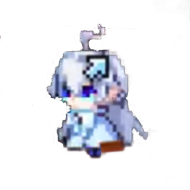
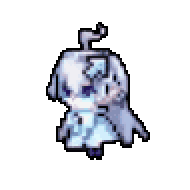
release: 0.2.3 (WebP slimming to ~6MB; pet double-click fix; pixel-sharp pet sprites)

Changed region(s): [[0.2368, 0.1053, 0.7895, 0.8421], [0.0, 0.1842, 0.0263, 0.2105]]

diff --git a/tools/window/pet.html b/tools/window/pet.html
@@ -284,8 +284,11 @@
 
     // 点击穿透：只在光标压到角色、或菜单开着时接管鼠标
     let interactive = false;
+    // 刚点过的一小段时间内保持可点：双击时角色会躲开，第二下不能掉进点击穿透里
+    let interactiveUntil = 0;
     function syncInteractive(force) {
-      const want = menu.classList.contains('show') || (cursor.on && onPet(cursor.x, cursor.y));
+      const want = menu.classList.contains('show') || performance.now() < interactiveUntil
+        || (cursor.on && onPet(cursor.x, cursor.y));
       // 宿主那边的鼠标持有权是 1.5 秒的租约，只在状态变化时报一次会过期，
       // 表现就是「菜单明明开着，过一会儿就点不动了」。所以只要还在持有就一直续租。
       if (!want && !force && want === interactive) return;
@@ -585,17 +588,41 @@
 
     // ---------------- 交互 ----------------
     let clickTimer = 0;
+    let lastClick = { t: 0, x: 0, y: 0 };
+    const DBL_GAP = 420;     // 两下点击的间隔上限（毫秒）
+    const DBL_SLACK = 1.7;   // 第二下离第一下多远也算同一组双击
 
     window.addEventListener('click', (e) => {
       if (menu.classList.contains('show')) return;
-      if (!onPet(e.clientX, e.clientY)) return;
+      const now = performance.now();
+      const nearLast = now - lastClick.t <= DBL_GAP &&
+        Math.hypot(e.clientX - lastClick.x, e.clientY - lastClick.y) <= SIZE * DBL_SLACK;
+      if (!onPet(e.clientX, e.clientY) && !nearLast) return;
+      // 点到了就把交互权多续一小段：角色会躲，第二下不能掉进点击穿透
+      interactiveUntil = now + 800;
+      syncInteractive(true);
       clearTimeout(clickTimer);
-      clickTimer = setTimeout(() => { showBubble(); }, CLICK_DELAY);
+      if (nearLast) {
+        // 双击在这里自己判，不再只依赖原生 dblclick（角色会移动，原生事件也常被点击穿透吞掉）
+        lastClick.t = 0;
+        triggerHit();
+        showBubble();
+        return;
+      }
+      lastClick = { t: now, x: e.clientX, y: e.clientY };
+      clickTimer = setTimeout(() => { lastClick.t = 0; showBubble(); }, CLICK_DELAY);
     });
 
     window.addEventListener('dblclick', (e) => {
-      if (!onPet(e.clientX, e.clientY)) return;
+      if (pet.mode === 'hit') return;
+      const now = performance.now();
+      const nearLast = now - lastClick.t <= DBL_GAP &&
+        Math.hypot(e.clientX - lastClick.x, e.clientY - lastClick.y) <= SIZE * DBL_SLACK;
+      if (!onPet(e.clientX, e.clientY) && !nearLast) return;
       clearTimeout(clickTimer);
+      lastClick.t = 0;
+      interactiveUntil = now + 800;
+      syncInteractive(true);
       triggerHit();
       showBubble();
     });

diff --git a/tools/window/ui2.html b/tools/window/ui2.html
@@ -42,21 +42,21 @@
        所以框的左右边缘正好压住画里的窗口边，人物搭在窗沿上的手自然对位。 -->
   <div class="scene" id="scene">
     <div class="art" id="art">
-      <img data-act="idle1" src="./ui2/idle_1.png" alt="" class="on">
-      <img data-act="idle2" src="./ui2/idle_2.png" alt="">
-      <img data-act="idle3" src="./ui2/idle_3.png" alt="">
-      <img data-act="idle4" src="./ui2/idle_4.png" alt="">
-      <img data-act="talk1" src="./ui2/talk_1.png" alt="">
-      <img data-act="talk2" src="./ui2/talk_2.png" alt="">
-      <img data-act="talk3" src="./ui2/talk_3.png" alt="">
-      <img data-act="talk4" src="./ui2/talk_4.png" alt="">
-      <img data-act="talk5" src="./ui2/talk_5.png" alt="">
-      <img data-act="sigh1" src="./ui2/sigh_1.png" alt="">
-      <img data-act="sigh2" src="./ui2/sigh_2.png" alt="">
-      <img data-act="sigh3" src="./ui2/sigh_3.png" alt="">
-      <img data-act="sigh4" src="./ui2/sigh_4.png" alt="">
-      <img data-act="sigh5" src="./ui2/sigh_5.png" alt="">
-      <img data-act="sigh6" src="./ui2/sigh_6.png" alt="">
+      <img data-act="idle1" src="./ui2/idle_1.webp" alt="" class="on">
+      <img data-act="idle2" src="./ui2/idle_2.webp" alt="">
+      <img data-act="idle3" src="./ui2/idle_3.webp" alt="">
+      <img data-act="idle4" src="./ui2/idle_4.webp" alt="">
+      <img data-act="talk1" src="./ui2/talk_1.webp" alt="">
+      <img data-act="talk2" src="./ui2/talk_2.webp" alt="">
+      <img data-act="talk3" src="./ui2/talk_3.webp" alt="">
+      <img data-act="talk4" src="./ui2/talk_4.webp" alt="">
+      <img data-act="talk5" src="./ui2/talk_5.webp" alt="">
+      <img data-act="sigh1" src="./ui2/sigh_1.webp" alt="">
+      <img data-act="sigh2" src="./ui2/sigh_2.webp" alt="">
+      <img data-act="sigh3" src="./ui2/sigh_3.webp" alt="">
+      <img data-act="sigh4" src="./ui2/sigh_4.webp" alt="">
+      <img data-act="sigh5" src="./ui2/sigh_5.webp" alt="">
+      <img data-act="sigh6" src="./ui2/sigh_6.webp" alt="">
     </div>
 
     <!-- ── 代码聊天框：纯 Win98 窗口，盖住素材里的灰色占位窗 ───────── -->

diff --git a/tools/window/crt.html b/tools/window/crt.html
@@ -54,16 +54,16 @@
     <!-- 人物：10 张立绘全叠在同一位置，只靠 .on 切透明度。
          这样换动作时不会闪一下白（新图未加载完）。首帧加载后一直留在内存里。 -->
     <div class="person" id="person">
-      <img data-act="cross"  src="/window/crt/y/抱肘_沉着脸.png"   alt="">
-      <img data-act="hug1"   src="/window/crt/y/抱肘_说话_1.png"   alt="">
-      <img data-act="hug2"   src="/window/crt/y/抱肘_说话_2.png"   alt="">
-      <img data-act="pull"   src="/window/crt/y/推or拉窗口.png"     alt="">
-      <img data-act="teach1" src="/window/crt/y/教导_1.png"        alt="">
-      <img data-act="teach2" src="/window/crt/y/教导_2.png"        alt="">
-      <img data-act="sad1"   src="/window/crt/y/教导_烦闷_1.png"   alt="">
-      <img data-act="sad2"   src="/window/crt/y/教导_烦闷_2.png"   alt="">
-      <img data-act="say1"   src="/window/crt/y/说话_1.png"        alt="" class="on">
-      <img data-act="say2"   src="/window/crt/y/说话_2.png"        alt="">
+      <img data-act="cross"  src="/window/crt/y/抱肘_沉着脸.webp"   alt="">
+      <img data-act="hug1"   src="/window/crt/y/抱肘_说话_1.webp"   alt="">
+      <img data-act="hug2"   src="/window/crt/y/抱肘_说话_2.webp"   alt="">
+      <img data-act="pull"   src="/window/crt/y/推or拉窗口.webp"     alt="">
+      <img data-act="teach1" src="/window/crt/y/教导_1.webp"        alt="">
+      <img data-act="teach2" src="/window/crt/y/教导_2.webp"        alt="">
+      <img data-act="sad1"   src="/window/crt/y/教导_烦闷_1.webp"   alt="">
+      <img data-act="sad2"   src="/window/crt/y/教导_烦闷_2.webp"   alt="">
+      <img data-act="say1"   src="/window/crt/y/说话_1.webp"        alt="" class="on">
+      <img data-act="say2"   src="/window/crt/y/说话_2.webp"        alt="">
     </div>
 
     <!-- 指导态特效：兔头 + 四颗星芒。默认 opacity:0，加 .guide 才出现。 -->

diff --git a/tools/window/nt.js b/tools/window/nt.js
@@ -35,18 +35,18 @@
   };
 
   const BASES = [
-    './nt/base1.png', './nt/base2.png', './nt/confident.png',
-    './nt/request1.png', './nt/request2.png', './nt/request3.png',
+    './nt/base1.webp', './nt/base2.webp', './nt/confident.webp',
+    './nt/request1.webp', './nt/request2.webp', './nt/request3.webp',
   ];
 
   const ART = [
-    { src: './nt/paint.png',    title: '未命名 - 画图' },
-    { src: './nt/base2.png',    title: 'YMB' },
-    { src: './nt/eye.png',      title: 'virus.exe' },
-    { src: './nt/door.png',     title: '新建文件夹' },
-    { src: './nt/victory.png',  title: '世界' },
-    { src: './nt/dance.png',    title: '跳舞' },
-    { src: './nt/confident.png', title: '我的电脑' },
+    { src: './nt/paint.webp',    title: '未命名 - 画图' },
+    { src: './nt/base2.webp',    title: 'YMB' },
+    { src: './nt/eye.webp',      title: 'virus.exe' },
+    { src: './nt/door.webp',     title: '新建文件夹' },
+    { src: './nt/victory.webp',  title: '世界' },
+    { src: './nt/dance.webp',    title: '跳舞' },
+    { src: './nt/confident.webp', title: '我的电脑' },
   ];
 
   const TITLES = [

diff --git a/tools/window/nt.html b/tools/window/nt.html
@@ -8,7 +8,7 @@
 </head>
 <body>
   <div id="stage">
-    <img id="base" src="./nt/base1.png" alt="" draggable="false">
+    <img id="base" src="./nt/base1.webp" alt="" draggable="false">
     <div id="rgb1"></div>
     <div id="rgb2"></div>
     <div id="grid"></div>

diff --git a/README.md b/README.md
@@ -1,6 +1,6 @@
 # 和Y？聊天（曳尔沐对话）
 
-`elymes-nte-web` 0.2.2 —— 把聊天做成 QQ2007 / Windows 98 那种老窗口和千禧风 CRT 窗口：独立开无地址栏窗口，右侧像素立绘跟着对话关键词换表情，另带一只会躲光标的透明桌宠。
+`elymes-nte-web` 0.2.3 —— 把聊天做成 QQ2007 / Windows 98 那种老窗口和千禧风 CRT 窗口：独立开无地址栏窗口，右侧像素立绘跟着对话关键词换表情，另带一只会躲光标的透明桌宠。
 
 > 原名「千禧年外壳」（`cortico-world-millennium`）。这一版是去过宿主耦合、可以单独分发的形态。
 > 中文名里的 Y 指原著里的曳尔沐；改成「和Y？聊天」是为了更贴合原著。
@@ -16,6 +16,13 @@
 想自己找的话，先随便聊几句，再注意窗口里出现的数字和句子。
 
 还找不到的话，线索在《异环》官方的特别剧情短片 [BV1PWxT6cE4E](https://www.bilibili.com/video/BV1PWxT6cE4E) 和 1.5 主线剧情里。
+
+## 0.2.3 更新
+
+- 包体从 22 MB 压到约 9 MB：2D 界面、千禧风立绘与「10KB」窗口素材改为 WebP，实拍图改为 JPG，画面观感基本不变。
+- 桌宠换用带黑边与像素锐化的新立绘。
+- 双击受击更容易触发：连点两下不再因为角色躲避而丢掉第二击；单击仍然只冒泡。
+- 安装包不再附带未被引用的 TTF（只保留页面实际加载的 woff2）。
 
 ## 0.2.2 更新
 
